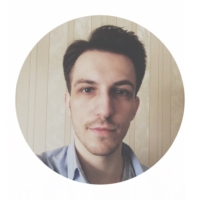
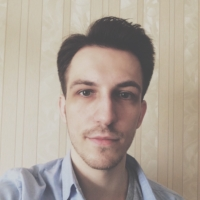
add animations

diff --git a/assets/css/1-tools/animation.scss b/assets/css/1-tools/animation.scss
@@ -1,0 +1,56 @@
+
+
+%animation {
+  -webkit-animation: animation 500ms linear both;
+  animation: animation 500ms linear both;
+}
+
+/* Generated with Bounce.js. Edit at http://goo.gl/6KiyoR */
+
+
+@-webkit-keyframes animation { 
+  0% { -webkit-transform: matrix3d(0, 0, 0, 0, 0, 0, 0, 0, 0, 0, 1, 0, 0, 0, 0, 1); transform: matrix3d(0, 0, 0, 0, 0, 0, 0, 0, 0, 0, 1, 0, 0, 0, 0, 1); }
+  2.9% { -webkit-transform: matrix3d(0.251, 0.132, 0, 0, 0.132, 0.251, 0, 0, 0, 0, 1, 0, 0, 0, 0, 1); transform: matrix3d(0.251, 0.132, 0, 0, 0.132, 0.251, 0, 0, 0, 0, 1, 0, 0, 0, 0, 1); }
+  3.2% { -webkit-transform: matrix3d(0.273, 0.154, 0, 0, 0.154, 0.273, 0, 0, 0, 0, 1, 0, 0, 0, 0, 1); transform: matrix3d(0.273, 0.154, 0, 0, 0.154, 0.273, 0, 0, 0, 0, 1, 0, 0, 0, 0, 1); }
+  5.81% { -webkit-transform: matrix3d(0.44, 0.309, 0, 0, 0.309, 0.44, 0, 0, 0, 0, 1, 0, 0, 0, 0, 1); transform: matrix3d(0.44, 0.309, 0, 0, 0.309, 0.44, 0, 0, 0, 0, 1, 0, 0, 0, 0, 1); }
+  6.31% { -webkit-transform: matrix3d(0.467, 0.326, 0, 0, 0.326, 0.467, 0, 0, 0, 0, 1, 0, 0, 0, 0, 1); transform: matrix3d(0.467, 0.326, 0, 0, 0.326, 0.467, 0, 0, 0, 0, 1, 0, 0, 0, 0, 1); }
+  10.81% { -webkit-transform: matrix3d(0.662, 0.294, 0, 0, 0.294, 0.662, 0, 0, 0, 0, 1, 0, 0, 0, 0, 1); transform: matrix3d(0.662, 0.294, 0, 0, 0.294, 0.662, 0, 0, 0, 0, 1, 0, 0, 0, 0, 1); }
+  12.51% { -webkit-transform: matrix3d(0.716, 0.234, 0, 0, 0.234, 0.716, 0, 0, 0, 0, 1, 0, 0, 0, 0, 1); transform: matrix3d(0.716, 0.234, 0, 0, 0.234, 0.716, 0, 0, 0, 0, 1, 0, 0, 0, 0, 1); }
+  15.82% { -webkit-transform: matrix3d(0.797, 0.112, 0, 0, 0.112, 0.797, 0, 0, 0, 0, 1, 0, 0, 0, 0, 1); transform: matrix3d(0.797, 0.112, 0, 0, 0.112, 0.797, 0, 0, 0, 0, 1, 0, 0, 0, 0, 1); }
+  18.82% { -webkit-transform: matrix3d(0.852, 0.025, 0, 0, 0.025, 0.852, 0, 0, 0, 0, 1, 0, 0, 0, 0, 1); transform: matrix3d(0.852, 0.025, 0, 0, 0.025, 0.852, 0, 0, 0, 0, 1, 0, 0, 0, 0, 1); }
+  20.82% { -webkit-transform: matrix3d(0.879, -0.014, 0, 0, -0.014, 0.879, 0, 0, 0, 0, 1, 0, 0, 0, 0, 1); transform: matrix3d(0.879, -0.014, 0, 0, -0.014, 0.879, 0, 0, 0, 0, 1, 0, 0, 0, 0, 1); }
+  25.03% { -webkit-transform: matrix3d(0.922, -0.049, 0, 0, -0.049, 0.922, 0, 0, 0, 0, 1, 0, 0, 0, 0, 1); transform: matrix3d(0.922, -0.049, 0, 0, -0.049, 0.922, 0, 0, 0, 0, 1, 0, 0, 0, 0, 1); }
+  25.83% { -webkit-transform: matrix3d(0.929, -0.05, 0, 0, -0.05, 0.929, 0, 0, 0, 0, 1, 0, 0, 0, 0, 1); transform: matrix3d(0.929, -0.05, 0, 0, -0.05, 0.929, 0, 0, 0, 0, 1, 0, 0, 0, 0, 1); }
+  37.54% { -webkit-transform: matrix3d(0.98, -0.006, 0, 0, -0.006, 0.98, 0, 0, 0, 0, 1, 0, 0, 0, 0, 1); transform: matrix3d(0.98, -0.006, 0, 0, -0.006, 0.98, 0, 0, 0, 0, 1, 0, 0, 0, 0, 1); }
+  45.85% { -webkit-transform: matrix3d(0.992, 0.005, 0, 0, 0.005, 0.992, 0, 0, 0, 0, 1, 0, 0, 0, 0, 1); transform: matrix3d(0.992, 0.005, 0, 0, 0.005, 0.992, 0, 0, 0, 0, 1, 0, 0, 0, 0, 1); }
+  50.05% { -webkit-transform: matrix3d(0.995, 0.004, 0, 0, 0.004, 0.995, 0, 0, 0, 0, 1, 0, 0, 0, 0, 1); transform: matrix3d(0.995, 0.004, 0, 0, 0.004, 0.995, 0, 0, 0, 0, 1, 0, 0, 0, 0, 1); }
+  65.87% { -webkit-transform: matrix3d(0.999, 0, 0, 0, 0, 0.999, 0, 0, 0, 0, 1, 0, 0, 0, 0, 1); transform: matrix3d(0.999, 0, 0, 0, 0, 0.999, 0, 0, 0, 0, 1, 0, 0, 0, 0, 1); }
+  85.89% { -webkit-transform: matrix3d(1, 0, 0, 0, 0, 1, 0, 0, 0, 0, 1, 0, 0, 0, 0, 1); transform: matrix3d(1, 0, 0, 0, 0, 1, 0, 0, 0, 0, 1, 0, 0, 0, 0, 1); }
+  100% { -webkit-transform: matrix3d(1, 0, 0, 0, 0, 1, 0, 0, 0, 0, 1, 0, 0, 0, 0, 1); transform: matrix3d(1, 0, 0, 0, 0, 1, 0, 0, 0, 0, 1, 0, 0, 0, 0, 1); } 
+}
+
+@keyframes animation { 
+  0% { -webkit-transform: matrix3d(0, 0, 0, 0, 0, 0, 0, 0, 0, 0, 1, 0, 0, 0, 0, 1); transform: matrix3d(0, 0, 0, 0, 0, 0, 0, 0, 0, 0, 1, 0, 0, 0, 0, 1); }
+  2.9% { -webkit-transform: matrix3d(0.251, 0.132, 0, 0, 0.132, 0.251, 0, 0, 0, 0, 1, 0, 0, 0, 0, 1); transform: matrix3d(0.251, 0.132, 0, 0, 0.132, 0.251, 0, 0, 0, 0, 1, 0, 0, 0, 0, 1); }
+  3.2% { -webkit-transform: matrix3d(0.273, 0.154, 0, 0, 0.154, 0.273, 0, 0, 0, 0, 1, 0, 0, 0, 0, 1); transform: matrix3d(0.273, 0.154, 0, 0, 0.154, 0.273, 0, 0, 0, 0, 1, 0, 0, 0, 0, 1); }
+  5.81% { -webkit-transform: matrix3d(0.44, 0.309, 0, 0, 0.309, 0.44, 0, 0, 0, 0, 1, 0, 0, 0, 0, 1); transform: matrix3d(0.44, 0.309, 0, 0, 0.309, 0.44, 0, 0, 0, 0, 1, 0, 0, 0, 0, 1); }
+  6.31% { -webkit-transform: matrix3d(0.467, 0.326, 0, 0, 0.326, 0.467, 0, 0, 0, 0, 1, 0, 0, 0, 0, 1); transform: matrix3d(0.467, 0.326, 0, 0, 0.326, 0.467, 0, 0, 0, 0, 1, 0, 0, 0, 0, 1); }
+  10.81% { -webkit-transform: matrix3d(0.662, 0.294, 0, 0, 0.294, 0.662, 0, 0, 0, 0, 1, 0, 0, 0, 0, 1); transform: matrix3d(0.662, 0.294, 0, 0, 0.294, 0.662, 0, 0, 0, 0, 1, 0, 0, 0, 0, 1); }
+  12.51% { -webkit-transform: matrix3d(0.716, 0.234, 0, 0, 0.234, 0.716, 0, 0, 0, 0, 1, 0, 0, 0, 0, 1); transform: matrix3d(0.716, 0.234, 0, 0, 0.234, 0.716, 0, 0, 0, 0, 1, 0, 0, 0, 0, 1); }
+  15.82% { -webkit-transform: matrix3d(0.797, 0.112, 0, 0, 0.112, 0.797, 0, 0, 0, 0, 1, 0, 0, 0, 0, 1); transform: matrix3d(0.797, 0.112, 0, 0, 0.112, 0.797, 0, 0, 0, 0, 1, 0, 0, 0, 0, 1); }
+  18.82% { -webkit-transform: matrix3d(0.852, 0.025, 0, 0, 0.025, 0.852, 0, 0, 0, 0, 1, 0, 0, 0, 0, 1); transform: matrix3d(0.852, 0.025, 0, 0, 0.025, 0.852, 0, 0, 0, 0, 1, 0, 0, 0, 0, 1); }
+  20.82% { -webkit-transform: matrix3d(0.879, -0.014, 0, 0, -0.014, 0.879, 0, 0, 0, 0, 1, 0, 0, 0, 0, 1); transform: matrix3d(0.879, -0.014, 0, 0, -0.014, 0.879, 0, 0, 0, 0, 1, 0, 0, 0, 0, 1); }
+  25.03% { -webkit-transform: matrix3d(0.922, -0.049, 0, 0, -0.049, 0.922, 0, 0, 0, 0, 1, 0, 0, 0, 0, 1); transform: matrix3d(0.922, -0.049, 0, 0, -0.049, 0.922, 0, 0, 0, 0, 1, 0, 0, 0, 0, 1); }
+  25.83% { -webkit-transform: matrix3d(0.929, -0.05, 0, 0, -0.05, 0.929, 0, 0, 0, 0, 1, 0, 0, 0, 0, 1); transform: matrix3d(0.929, -0.05, 0, 0, -0.05, 0.929, 0, 0, 0, 0, 1, 0, 0, 0, 0, 1); }
+  37.54% { -webkit-transform: matrix3d(0.98, -0.006, 0, 0, -0.006, 0.98, 0, 0, 0, 0, 1, 0, 0, 0, 0, 1); transform: matrix3d(0.98, -0.006, 0, 0, -0.006, 0.98, 0, 0, 0, 0, 1, 0, 0, 0, 0, 1); }
+  45.85% { -webkit-transform: matrix3d(0.992, 0.005, 0, 0, 0.005, 0.992, 0, 0, 0, 0, 1, 0, 0, 0, 0, 1); transform: matrix3d(0.992, 0.005, 0, 0, 0.005, 0.992, 0, 0, 0, 0, 1, 0, 0, 0, 0, 1); }
+  50.05% { -webkit-transform: matrix3d(0.995, 0.004, 0, 0, 0.004, 0.995, 0, 0, 0, 0, 1, 0, 0, 0, 0, 1); transform: matrix3d(0.995, 0.004, 0, 0, 0.004, 0.995, 0, 0, 0, 0, 1, 0, 0, 0, 0, 1); }
+  65.87% { -webkit-transform: matrix3d(0.999, 0, 0, 0, 0, 0.999, 0, 0, 0, 0, 1, 0, 0, 0, 0, 1); transform: matrix3d(0.999, 0, 0, 0, 0, 0.999, 0, 0, 0, 0, 1, 0, 0, 0, 0, 1); }
+  85.89% { -webkit-transform: matrix3d(1, 0, 0, 0, 0, 1, 0, 0, 0, 0, 1, 0, 0, 0, 0, 1); transform: matrix3d(1, 0, 0, 0, 0, 1, 0, 0, 0, 0, 1, 0, 0, 0, 0, 1); }
+  100% { -webkit-transform: matrix3d(1, 0, 0, 0, 0, 1, 0, 0, 0, 0, 1, 0, 0, 0, 0, 1); transform: matrix3d(1, 0, 0, 0, 0, 1, 0, 0, 0, 0, 1, 0, 0, 0, 0, 1); } 
+}
+
+
+
+
+

diff --git a/assets/css/3-sections/_work.sass b/assets/css/3-sections/_work.sass
@@ -14,6 +14,12 @@
 		position: relative
 		padding-top: 16%
 		overflow: hidden
+		cursor: pointer
+		background: 
+			position: center center
+			repeat: no-repeat
+			size: cover
+		+perspective(300)
 
 		@media screen and (max-width: 760px)
 			width: 50%
@@ -26,15 +32,19 @@
 			size: cover
 
 		.thumb-overlay
-			+position(absolute, 100% 0px null 0px)
+			+position(absolute, -50% 0px null 0px)
 			height: 100%
 			background: fade-out($orange-dark, 0.1)
 			text-align: center
-			+transition
+			+transition(200ms)
 			+display(flex)
 			+align-items(center)
 			+justify-content(space-around)
-
+			+transform(rotateX(90deg))
+			+transform-origin(center bottom)
+			opacity: 0
+			//+transform (matrix3d(0, 0, 0, 0, 0, 0, 0, 0, 0, 0, 1, 0, 0, 0, 0, 1))
+			//+transition(opacity, 200ms, ease-out, 500ms)
 		strong
 			display: block
 			padding: 0px 20px
@@ -45,4 +55,7 @@
 			line-height: 1.2
 
 		&:hover .thumb-overlay
-			+position(absolute, 0% 0px null 0px)
+			top: 0%
+			+transform(rotateX(0deg))
+			opacity: 1
+			//@extend %animation

diff --git a/assets/css/3-sections/_about.sass b/assets/css/3-sections/_about.sass
@@ -1,11 +1,11 @@
 section
 
 	.color-text
-		color: $orange-light
+		color: $orange
 
 	h3
 		@extend %big-bold
-		color: $orange-light
+		color: $orange
 		text-align: center
 		padding: 40px 0 20px
 
@@ -20,6 +20,7 @@ section
 			+size(200px)
 			background: url(/assets/img/face.JPG)
 			order: 3
+			border-radius: 50%
 
 		[class^="icon"]
 			+size(100px)
@@ -43,10 +44,12 @@ section
 
 			.face-img
 				display: block
+				text-align: center
 				background-position: center center
 				background-repeat: no-repeat
-				width: auto
-				margin-bottom: 30px
+				width: 200
+				margin: 0 auto 30px auto
+				
 			
 			[class^="icon"]
 				margin: 10px

diff --git a/assets/css/2-base/placeholders.sass b/assets/css/2-base/placeholders.sass
@@ -7,6 +7,6 @@
 
 %big-bold
   font:
-    size: 22px
-    weight: 300
+    size: 24px
+    weight: 400
   text-transform: uppercase

diff --git a/assets/css/2-base/_vars.sass b/assets/css/2-base/_vars.sass
@@ -10,5 +10,5 @@ $bgcolor: #E4E7EC
 
 
 $orange: #FFB975
-$orange-light: #FFB666
+$orange-light: #FDAE58
 $orange-dark: #B5835E

diff --git a/assets/css/1-tools/_-tools-dir.sass b/assets/css/1-tools/_-tools-dir.sass
@@ -1,3 +1,4 @@
 @import 'bourbon/bourbon'
 @import 'normalize'
 @import 'fonts'
+@import 'animation'
